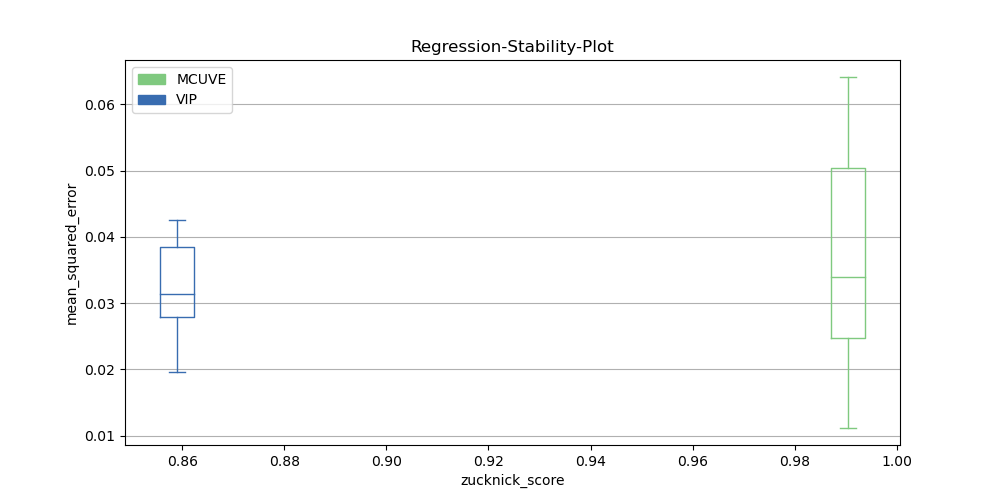
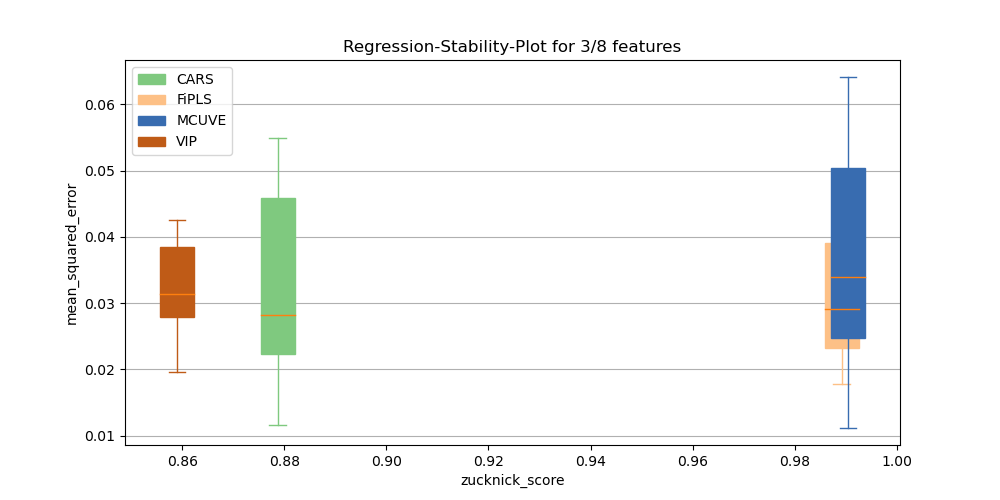
Bug fixes and restructuring of base classes

diff --git a/auswahl/_base.py b/auswahl/_base.py
@@ -14,6 +14,8 @@ from sklearn.feature_selection import SelectorMixin
 from sklearn.model_selection import GridSearchCV
 from sklearn.model_selection import cross_val_score
 from sklearn.utils import check_scalar
+from sklearn.utils.validation import check_is_fitted
+
 
 
 class FeatureDescriptor:
@@ -162,7 +164,7 @@ class Selection:
         return self.__repr__()
 
 
-class SpectralSelector(metaclass=ABCMeta):
+class SpectralSelector(SelectorMixin, BaseEstimator, metaclass=ABCMeta):
 
     """
         TODO
@@ -188,27 +190,6 @@ class SpectralSelector(metaclass=ABCMeta):
             cv = GridSearchCV(model, self.model_hyperparams, cv=self.n_cv_folds, scoring='neg_mean_squared_error')
             cv.fit(X, y)
             return cv.best_score_, cv.best_estimator_
-
-    @abstractmethod
-    def reparameterize(self, feature_descriptor: FeatureDescriptor):
-        ...
-
-
-class PointSelector(SpectralSelector, SelectorMixin, BaseEstimator, metaclass=ABCMeta):
-    """Base class for feature selection methods that select features independently.
-
-    Parameters
-    ----------
-    n_features_to_select : int or float, default=None
-        Number of features to select
-    """
-
-    def __init__(self,
-                 n_features_to_select: Union[int, float] = None,
-                 model_hyperparams: Union[dict, List[dict]] = None,
-                 n_cv_folds: int = 2):
-        self.n_features_to_select = n_features_to_select
-        super().__init__(model_hyperparams, n_cv_folds)
 
     def fit(self, X, y, mask=None):
         """Run the feature selection process.
@@ -237,8 +218,7 @@ class PointSelector(SpectralSelector, SelectorMixin, BaseEstimator, metaclass=AB
             X = X[:, mask_indices]
 
         X, y = self._validate_data(X, y, accept_sparse=False, ensure_min_samples=2, ensure_min_features=2)
-        n_features_to_select = self._check_n_features_to_select(X)
-        self._fit(X, y, n_features_to_select)
+        self._dispatch_fit(X, y)
 
         if mask is not None:
             selected = mask_indices[np.nonzero(self.support_)]
@@ -246,6 +226,46 @@ class PointSelector(SpectralSelector, SelectorMixin, BaseEstimator, metaclass=AB
             self.support_[selected] = 1
 
         return self
+
+    def get_best_estimator(self):
+        """
+            TODO
+        """
+        check_is_fitted(self)
+        if not hasattr(self, 'best_model_'):
+            raise NotImplementedError("Make sure, that after fit has been called on the selector, the selector "
+                                      "provides the optimally configured estimator for the selected features as "
+                                      "attribute 'best_model_'")
+        return self.best_model_
+
+    @abstractmethod
+    def _dispatch_fit(self, X, y):
+        ...
+
+    @abstractmethod
+    def reparameterize(self, feature_descriptor: FeatureDescriptor):
+        ...
+
+
+class PointSelector(SpectralSelector, metaclass=ABCMeta):
+    """Base class for feature selection methods that select features independently.
+
+    Parameters
+    ----------
+    n_features_to_select : int or float, default=None
+        Number of features to select
+    """
+
+    def __init__(self,
+                 n_features_to_select: Union[int, float] = None,
+                 model_hyperparams: Union[dict, List[dict]] = None,
+                 n_cv_folds: int = 2):
+        self.n_features_to_select = n_features_to_select
+        super().__init__(model_hyperparams, n_cv_folds)
+
+    def _dispatch_fit(self, X, y):
+        n_features_to_select = self._check_n_features_to_select(X)
+        self._fit(X, y, n_features_to_select)
 
     @abstractmethod
     def _fit(self, X, y, n_features_to_select):
@@ -276,7 +296,7 @@ class PointSelector(SpectralSelector, SelectorMixin, BaseEstimator, metaclass=AB
         self.n_features_to_select = feature_descriptor.get_params_for(self)
 
 
-class IntervalSelector(SpectralSelector, SelectorMixin, BaseEstimator, metaclass=ABCMeta):
+class IntervalSelector(SpectralSelector, metaclass=ABCMeta):
     """Base class for feature selection methods that select consecutive chunks (intervals) of features.
 
     Parameters
@@ -296,28 +316,10 @@ class IntervalSelector(SpectralSelector, SelectorMixin, BaseEstimator, metaclass
         self.interval_width = interval_width
         super().__init__(model_hyperparams, n_cv_folds)
 
-    def fit(self, X, y):
-        """Run the feature selection process.
-
-        Parameters
-        ----------
-        X : array-like of shape (n_samples, n_features)
-            The input samples.
-
-        y : array-like of shape (n_samples,)
-            The target values.
-
-        Returns
-        -------
-        self : object
-            Returns the instance itself.
-        """
-        X, y = self._validate_data(X, y, accept_sparse=False, ensure_min_samples=2, ensure_min_features=2)
+    def _dispatch_fit(self, X, y):
         self._check_n_intervals_to_select(X)
         interval_width = self._check_interval_width(X)
-
         self._fit(X, y, self.n_intervals_to_select, interval_width)
-        return self
 
     @abstractmethod
     def _fit(self, X, y, n_intervals_to_select, interval_width):

diff --git a/auswahl/benchmarking/_benchmarking.py b/auswahl/benchmarking/_benchmarking.py
@@ -9,7 +9,6 @@ import warnings
 from typing import Union, List, Tuple, Callable
 from joblib import Parallel, delayed
 from numpy.random import RandomState
-from sklearn.base import BaseEstimator
 from sklearn.model_selection import train_test_split
 from sklearn.utils import check_random_state
 from sklearn.metrics import mean_squared_error
@@ -190,6 +189,11 @@ def _unpack_metrics(metrics, compulsory=False):
         tuple: Tuple[List[Callable], List[str]]
 
         """
+    if metrics is None:
+        if compulsory:
+            raise ValueError('At least one regression metric has to be specified.')
+        return []
+
     if not isinstance(metrics, list):
         metrics = [metrics]
 
@@ -330,7 +334,7 @@ def _benchmark_parallel(x: np.array, y: np.array, train_size: float,
             continue
         # fit test model
         support = method.get_support(indices=True)
-        model = method.best_model_
+        model = method.get_best_estimator()
         try:
             model.fit(train_x[:, support], train_y)
         except Exception as e:
@@ -384,13 +388,13 @@ def _pot(pod, dataset_name, feature, methods_names, reg_metrics_names, results, 
                                      method_name=method, during=during, exception=exception)
 
 
-def benchmark(data: List[Tuple[np.array, np.array, str, float, BaseEstimator]],
+def benchmark(data: List[Tuple[np.array, np.array, str, float]],
               features: List[Union[int, Tuple[int, int]]],
               methods: List[Union[SpectralSelector, Tuple[SpectralSelector, str]]],
               n_runs: int = 10,
               reg_metrics: List[Callable[[np.ndarray, np.ndarray], float]] = mean_squared_error,
               random_state: Union[int, RandomState] = None,
-              stab_metrics: List[Callable[[np.ndarray, np.ndarray], float]] = [],
+              stab_metrics: List[Callable[[BenchmarkPOD], float]] = None,
               n_jobs: int = 1,
               error_log_file: str = "./error_log.txt",
               verbose: bool = True):
@@ -401,22 +405,39 @@ def benchmark(data: List[Tuple[np.array, np.array, str, float, BaseEstimator]],
 
         Parameters
         ----------
-        data
-        features
-        n_runs
-        reg_metrics
-        stab_metrics
-        methods
-        random_state
-        n_jobs
-        error_log_file
-        verbose
+        data: List of tuples (np.array, np.array, str, float)
+            list of tuples describing datasets (x, y, dataset_name, train_size)
+        features: List of integers or tuple of integers (int, int)
+            Descriptor of the number of features to be selected. If an integer, the integer describes the number of
+            feautres to be selected. If a tuple, the tuple is interpreted as (#intervals to select, interval width).
+            If an IntervalSelector is included in the benchmarking, the feautres have to be described as tuples.
+        n_runs: int, default=10
+            Number of runs per method, dataset and number of features to be selected. Used to elucidate
+            method performance and selection stability.
+        reg_metrics: List of Callable[[np.ndarray, np.ndarray], float], default=sklearn.metrics.mean_square_error
+            List of regression metrics to be evaluated and made available after the benchmarking
+        stab_metrics: List of Callable[[BenchmarkPOD], float], default=None
+            List of stability metrics to be evaluated and made available after the benchmarking
+        methods: List of SpectralSelector or tuples (SpectralSelector, str)
+            List of instances of classes subtyping SpectralSelector. If the class names of the instance's classes
+            are not unique a tuple can be passed specifying the name (instance, name)
+        random_state: int or numpy.random.RandomState, default=None
+            RandomState for reproducibility of the benchmarking results
+        n_jobs: int, default=1
+            Number of jobs to be used during benchmarking. It is recommended to provide jobs to the benchmarking
+            instead of individual selectors
+        error_log_file: str, default="./error_log.txt"
+            location and name of the file, in which errors are to be logged
+        verbose: bool, default=True
+            If True, basic information of the state of benchmarking are plotted
 
         Returns
         -------
         pod: BenchmarkPOD
-            TODO
+            BenchmarkPOD object containing the result data of the benchmark. The BenchmarkPOD object contains
+            data regarding regression, stability, selection and run time measurement.
     """
+
     speaker = Speaker(verbose)
     logger = ErrorLogger(log_file=error_log_file)
 

diff --git a/auswahl/benchmarking/_util/plotting.py b/auswahl/benchmarking/_util/plotting.py
@@ -53,7 +53,7 @@ def _box_plot(title: str,
               save_path: str = None):
 
     colors = plt.cm.get_cmap('Accent', len(y_data) + 1)
-    entities = ['boxprops', 'medianprops', 'flierprops', 'capprops', 'whiskerprops']
+    entities = ['boxprops', 'flierprops', 'capprops', 'whiskerprops']
 
     fig, ax = plt.subplots(nrows=1, ncols=1, figsize=(10, 5))
     legend_handles = []
@@ -70,16 +70,23 @@ def _box_plot(title: str,
         for entity in entities:
             plotting_kwargs[entity] = dict(color='k')
 
+    box_subplots = []
     for i, data in enumerate(y_data):
         if legend is not None:
             plotting_kwargs = dict()
             for entity in entities:
                 plotting_kwargs[entity] = dict(color=colors(i))
 
-        ax.boxplot(data, positions=x_data[i], whis=(0, 100), widths=box_width, manage_ticks=False, **plotting_kwargs)
+        box_subplots.append(ax.boxplot(data, positions=x_data[i], whis=(0, 100), widths=box_width,
+                                manage_ticks=False, patch_artist=True, **plotting_kwargs))
 
         if legend is not None:
             legend_handles.append(mpatches.Patch(color=colors(i), label=legend[i]))
+
+    # fill boxes
+    for i, box_plot in enumerate(box_subplots):
+        for patch in box_plot['boxes']:
+            patch.set_facecolor(colors(i))
 
     ax.set_title(title)
     ax.set_xlabel(x_label)
@@ -244,7 +251,7 @@ def plot_score_vs_stability(pod: BenchmarkPOD,
                                        n_features=n_features,
                                        stab_metric=stability_metric).to_numpy().tolist()
 
-    _box_plot("Regression-Stability-Plot",
+    _box_plot(f'Regression-Stability-Plot for {FeatureDescriptor(n_features)} features',
               stability_metric,
               regression_metric,
               reg_data,
@@ -338,10 +345,10 @@ def _plot_score_box(pod: BenchmarkPOD,
     if methods is None:
         methods = pod.methods
 
-    if n_features is not None and not isinstance(n_features, list):
-        n_features = [n_features]
-
-    n_features = [FeatureDescriptor(feature, pod.resolve_tuples) for feature in n_features]
+    if n_features is not None:
+        if not isinstance(n_features, list):
+            n_features = [n_features]
+        n_features = [FeatureDescriptor(feature, pod.resolve_tuples) for feature in n_features]
 
     reg_scores = pod.get_regression_data(method=methods,
                                          n_features=n_features,
@@ -358,7 +365,7 @@ def _plot_score_box(pod: BenchmarkPOD,
               reg_scores,
               x_coords,
               methods if methods is not None else pod.methods,
-              n_features if _to_string(n_features) is not None else _to_string(pod.feature_descriptors),
+              _to_string(n_features) if n_features is not None else _to_string(pod.feature_descriptors),
               ticks,
               save_path=save_path)
 
@@ -511,7 +518,8 @@ def _plot_selection_bar(pod: BenchmarkPOD,
     fig = plt.figure()
     gs = fig.add_gridspec(len(methods), hspace=0)
     axs = gs.subplots(sharex=True, sharey=True)
-    fig.suptitle(f'Selection probability P on dataset {dataset} for {n_features} features.')
+    fig.suptitle(f'Selection probability P on dataset {dataset} '
+                 f'for {FeatureDescriptor(n_features, pod.resolve_tuples)} features.')
 
     selections = pod.get_selection_data(dataset=dataset, method=methods, n_features=n_features).to_numpy().tolist()
     selections = pd.DataFrame([sum([s.selected_features for s in sel], []) for sel in selections])

diff --git a/examples/benchmakring_new.py b/examples/benchmakring_new.py
@@ -38,11 +38,11 @@ fipls = FiPLS(interval_width=10)
 
 
 pod = benchmark((x, y, 'nitrogen', 0.9),  # spectrum, target, dataset name, train size
-                features=[(2, 2), (3, 8), (2, 12)],  # integer or tuple of integers (n_intervals, width) for IntervalSelectors
+                features=[(2, 2), (3, 8), (4, 5)],  # integer or tuple of integers (n_intervals, width) for IntervalSelectors
                 n_runs=10,
                 reg_metrics=mean_squared_error,
-                stab_metrics=zucknick_score,
-                methods=[mcuve, vip],
+                stab_metrics=[zucknick_score, deng_score],
+                methods=[vip, mcuve, cars, fipls],
                 random_state=11111111,
                 n_jobs=2,
                 error_log_file="./error_log.txt",
@@ -50,9 +50,9 @@ pod = benchmark((x, y, 'nitrogen', 0.9),  # spectrum, target, dataset name, trai
 
 
 #print(pod.get_selection_data(n_features=(2, 2), sample=[0]))
-plot_score_vs_stability(pod, n_features=(2, 12), save_path="./score_stability.png")
+plot_score_vs_stability(pod, n_features=(3, 8), stability_metric='zucknick_score', save_path="./score_stability.png")
 #print(pod.get_regression_data(n_features=[(2, 2), (2, 20)]))
 #plot_exec_time(pod, save_path="./execution_time.png")
-#plot_score(pod, save_path="./score.png")
+plot_score(pod, save_path="./score.png")
 #plot_stability(pod, save_path="./stability.png")
 #plot_selection(pod, n_features=(2, 12), save_path="./selection.png")

diff --git a/auswahl/_vip_spa.py b/auswahl/_vip_spa.py
@@ -4,7 +4,7 @@ import numpy as np
 from sklearn.cross_decomposition import PLSRegression
 from sklearn.utils.validation import check_is_fitted
 
-from ._base import PointSelector
+from ._base import PointSelector, FeatureDescriptor
 from ._spa import SPA
 from ._vip import VIP
 
@@ -44,3 +44,8 @@ class VIP_SPA(PointSelector):
     def _get_support_mask(self):
         check_is_fitted(self)
         return self.support_
+
+    def reparameterize(self, feature_descriptor: FeatureDescriptor):
+        self.n_features_to_select = feature_descriptor.get_params_for(self)
+        self.vip.reparameterize(feature_descriptor)
+        self.spa.reparameterize(feature_descriptor)

diff --git a/auswahl/_spa.py b/auswahl/_spa.py
@@ -104,7 +104,7 @@ class SPA(PointSelector):
         return score, model, wavelengths
 
     def _fit(self, X, y, n_features_to_select):
-
+        print(f'to be selected {n_features_to_select}')
         candidates = Parallel(n_jobs=self.n_jobs)(delayed(self._fit_spa)(X,
                                                   y,
                                                   n_features_to_select,
